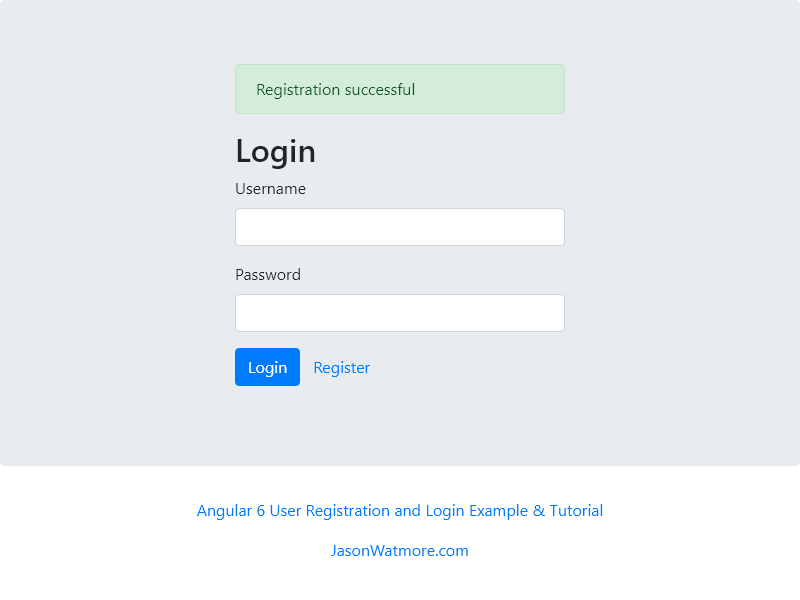
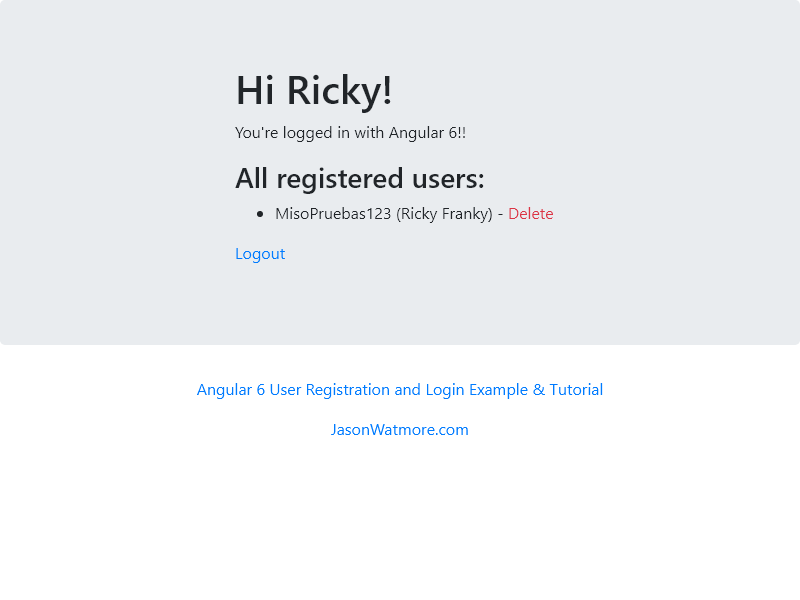
test with puppeter

diff --git a/__tests__/login.js b/__tests__/login.js
@@ -14,24 +14,21 @@ describe(
     })
 
     test('Submit form with valid data', async () => {
-      await page.click('[href="/register"]');
 
       await page.waitForSelector('form');
-      await page.type('#name', 'Ricky');
-      await page.type('#lastName', 'Franky');
-      await page.type('#userName', 'MisoPruebas123');
-      await page.type('#password', 'szechuanSauce');
 
-      await page.click('#register');
-      await page.waitForSelector('.alert-success');
-      const html = await page.$eval('.alert-success', el => el.innerHTML);
-
-      expect(html).toBe('Registration successful');
+      await page.type('#userName','MisoPruebas123');
+      await page.type('#password','szechuanSauce');
+      await sleep(2000)
+      await page.click('#login');
+      await sleep(2000)
+      await page.screenshot({path: 'clickbd.png',fullPage: true})
     }, timeout);
- },
+  },
   timeout
 )
 
 function sleep(ms) {
   return new Promise(resolve => setTimeout(resolve, ms))
   }
+
